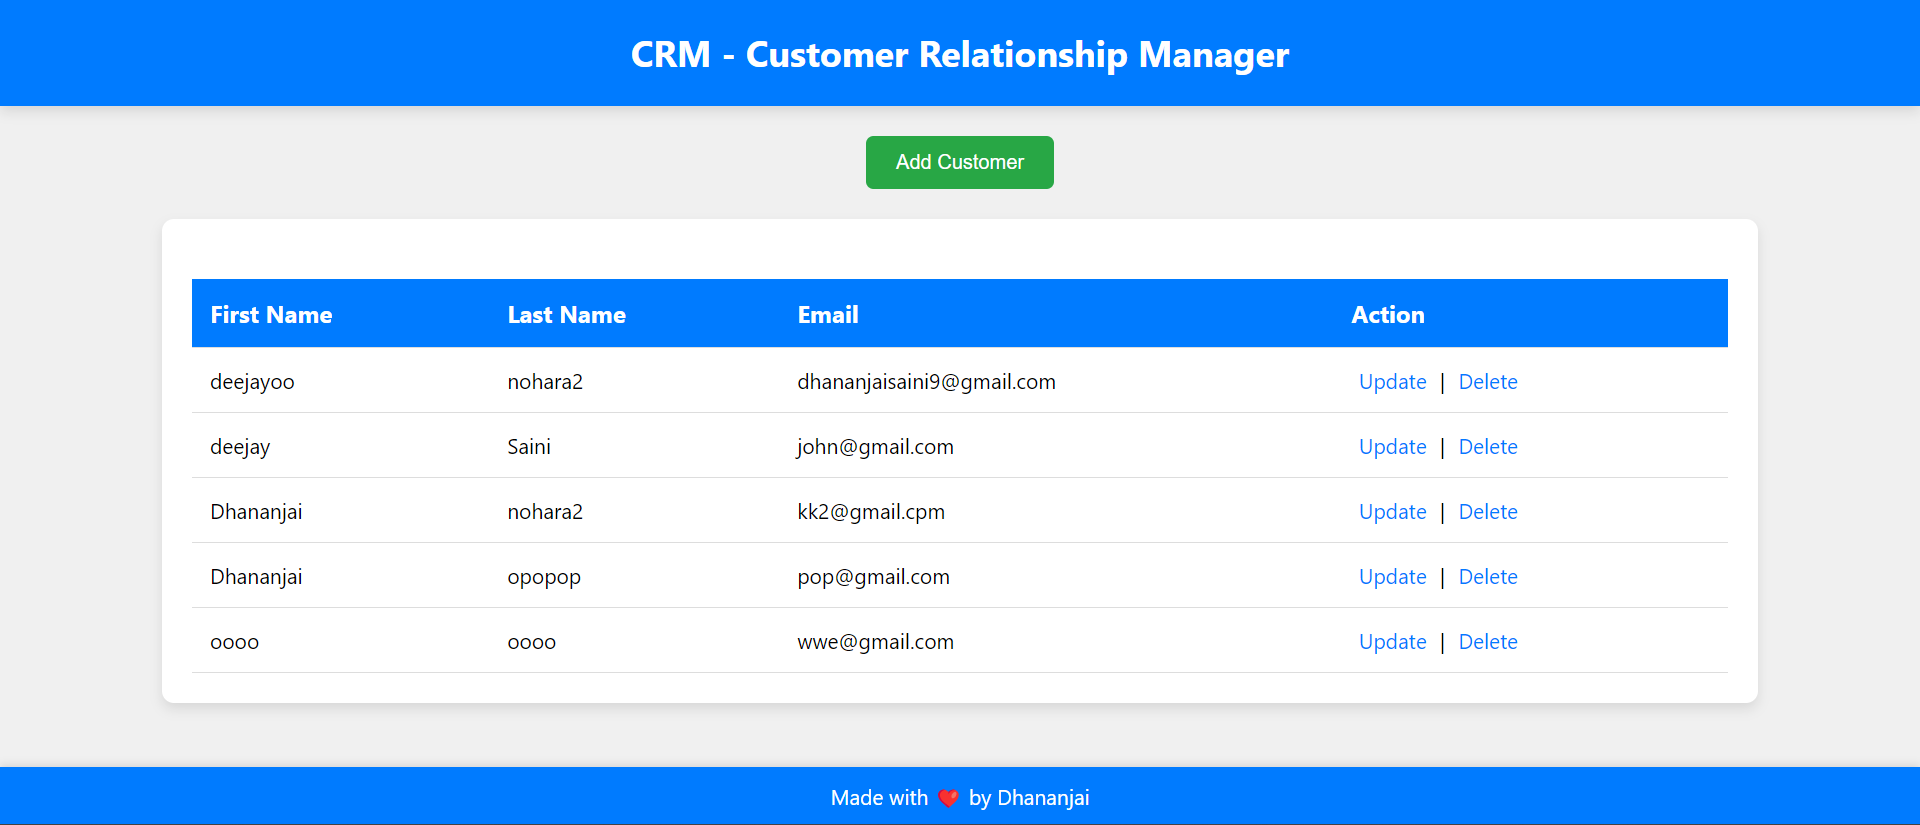
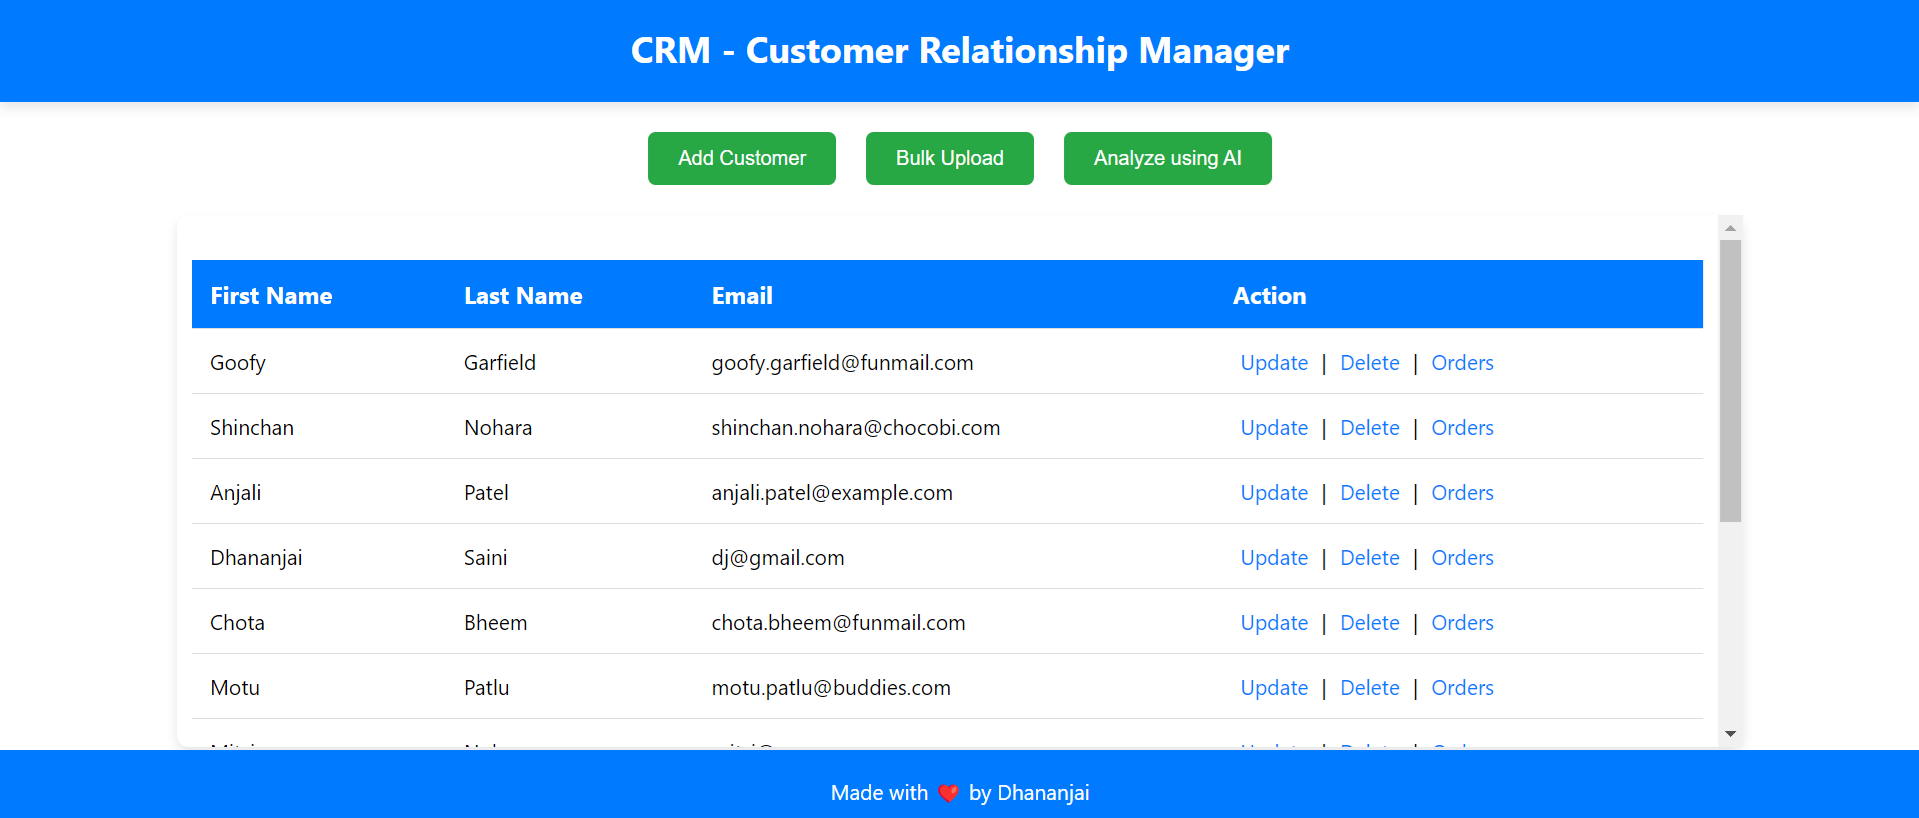
add: new assets

diff --git a/README.md b/README.md
@@ -1,6 +1,6 @@
 # Customer-Relationship-Manager
 
-CRM (Web Customer Tracker) software made using Spring and Hibernate. 
+CRM (Web Customer Tracker) software made using Spring and Hibernate, which AI features.
 
 ## Features
 
@@ -9,8 +9,11 @@ CRM (Web Customer Tracker) software made using Spring and Hibernate.
 - **JWT Authentication** with **Spring Security** for user login and signup.
 - **Role-based Authorization** for access to specific APIs.
 - **MySQL** database for user data storage with encrypted passwords.
-- Hibernate used in conjunction with JPA for seamless database interactions.
-- 
+- **Hibernate** used in conjunction with JPA for seamless database interactions.
+- Used **OpenAPI Specification / Swagger** Implementation for API Documentation
+- Features for file uploads.
+- Integrated **OpenAI ChatGPT** to analyze order data and extract actionable insights regarding customer behaviour.
+
 <table>
   <tr>
     <td><img src="https://github.com/Dhananjai543/Customer-Relationship-Manager/blob/master/assets/crm1.png"></td>
@@ -26,6 +29,12 @@ CRM (Web Customer Tracker) software made using Spring and Hibernate.
   </tr>
   <tr>
     <td><img src="https://github.com/Dhananjai543/Customer-Relationship-Manager/blob/master/assets/crm5.png"></td>
+  </tr>
+  <tr>
+    <td><img src="https://github.com/Dhananjai543/Customer-Relationship-Manager/blob/master/assets/crm6.png"></td>
+  </tr>
+  <tr>
+    <td><img src="https://github.com/Dhananjai543/Customer-Relationship-Manager/blob/master/assets/crm7.png"></td>
   </tr>
 </table>
 
